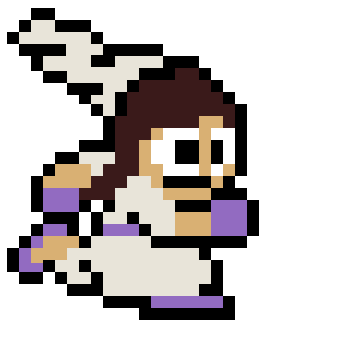
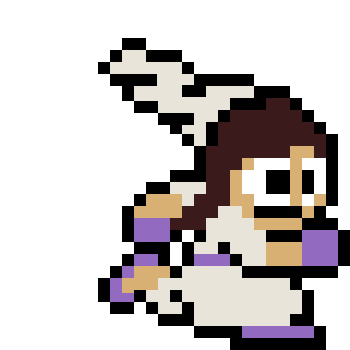
tati and juanan run animations done

diff --git a/src/characterScreen.js b/src/characterScreen.js
@@ -2,8 +2,8 @@ const characterScreen = `
   <h3 class="title">Choose your character</h3>
   <main>
   <div>
-    <div class="character-select" style="background-image: url(./assets/characters/tati/main.jpg);"></div>
-    <div class="character-select" style="background-image: url(./assets/characters/juanan/main.jpg);"></div>
+    <div class="character-select" style="background-image: url(./assets/characters/tati/main.png);"></div>
+    <div class="character-select" style="background-image: url(./assets/characters/juanan/main.png);"></div>
     <div class="character-select" style="background-image: url(./assets/characters/kimchi/main.jpg);"></div>
   </div>
   <div>

diff --git a/src/script.js b/src/script.js
@@ -6,7 +6,7 @@ import { Enemy } from './enemy.js'
 const board = document.getElementById('main')
 const startButton = document.getElementsByClassName('start-button')[0]
 let character
-let speed = 10
+let enemySpeed = 10
 let enemies = []
 
 startButton.addEventListener('click', characterSelection)
@@ -67,7 +67,7 @@ function startGame() {
   }
 
   function enemyCreation () {
-    const enemy = new Enemy(375, speed, board, player, enemies)
+    const enemy = new Enemy(375, enemySpeed, board, player, enemies)
     enemies.push(enemy)
     enemy.drawEnemy()
   }

diff --git a/styles.css b/styles.css
@@ -7,10 +7,12 @@
 }
 
 .player {
-  width: 90px;
+  width: 100px;
   height: 100px;
   position: absolute;
-  background-size: auto 100%;
+  background-size: contain;
+  background-repeat: no-repeat;
+  background-position: right bottom;
 }
 
 .enemy {
@@ -31,8 +33,9 @@
 }
 
 .character-select {
-  width: 50px;
-  height: 50px;
+  width: 100px;
+  height: 100px;
   display: inline-block;
   background-size: contain;
+  background-repeat: no-repeat;
 }
